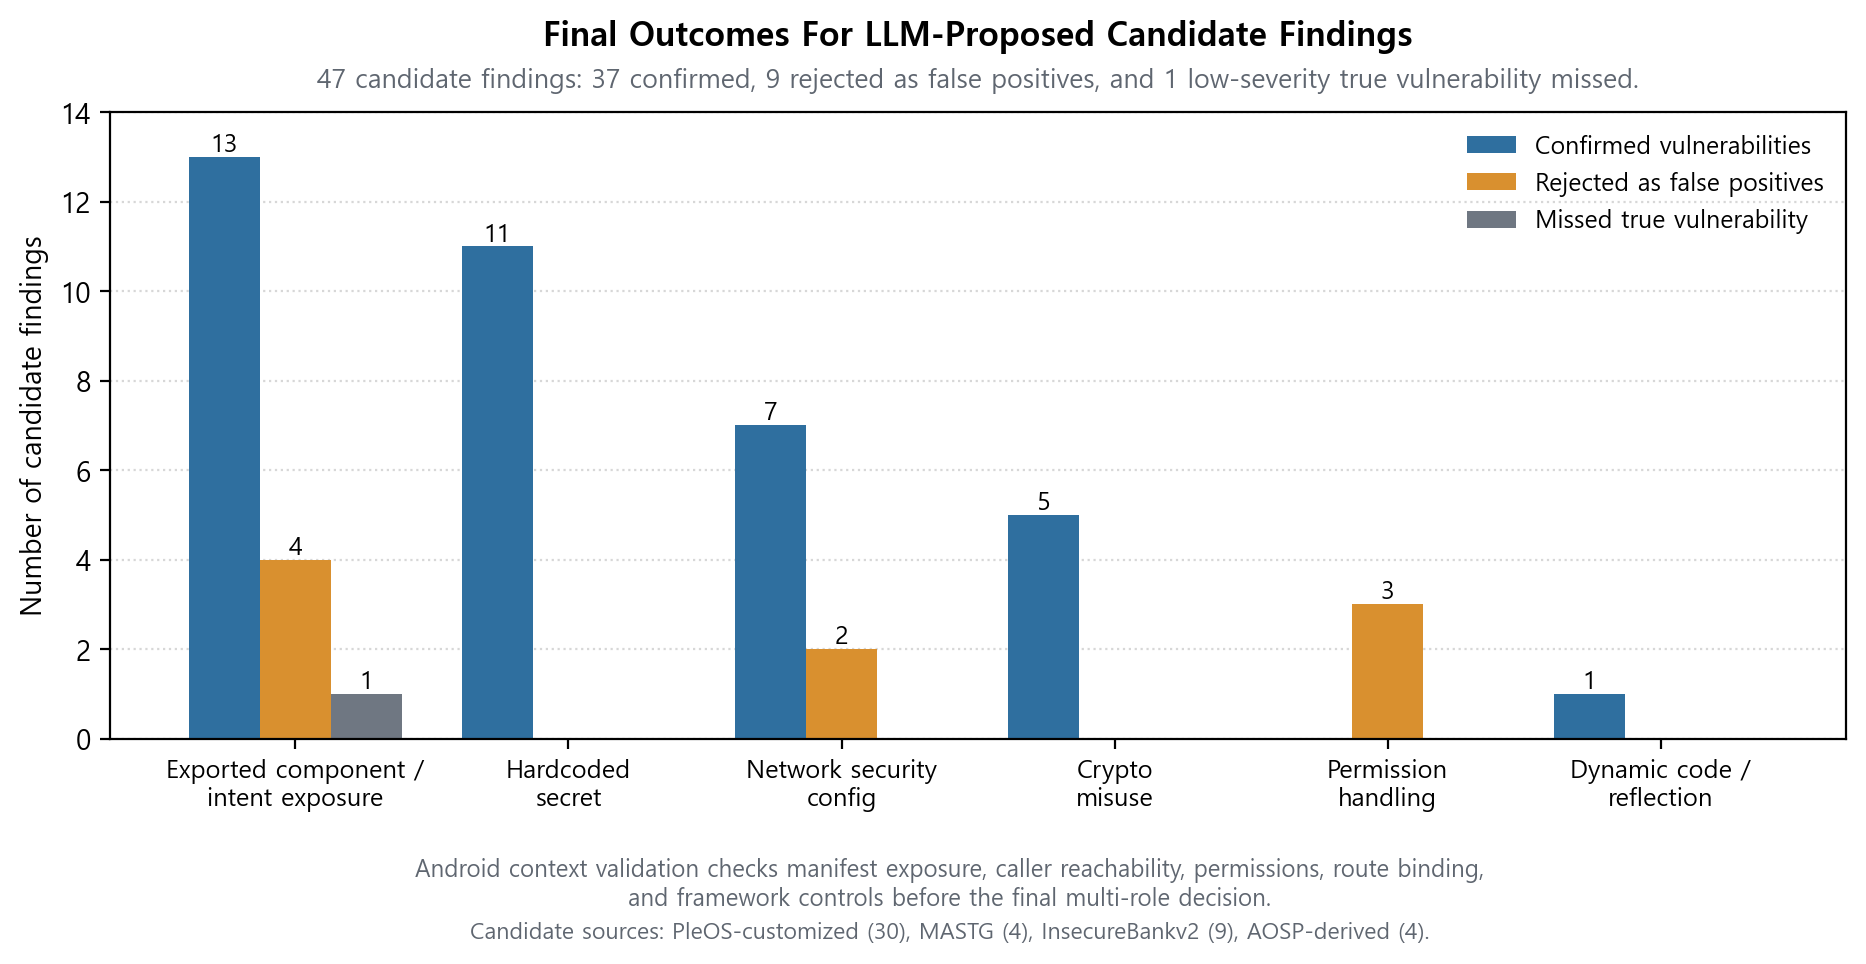
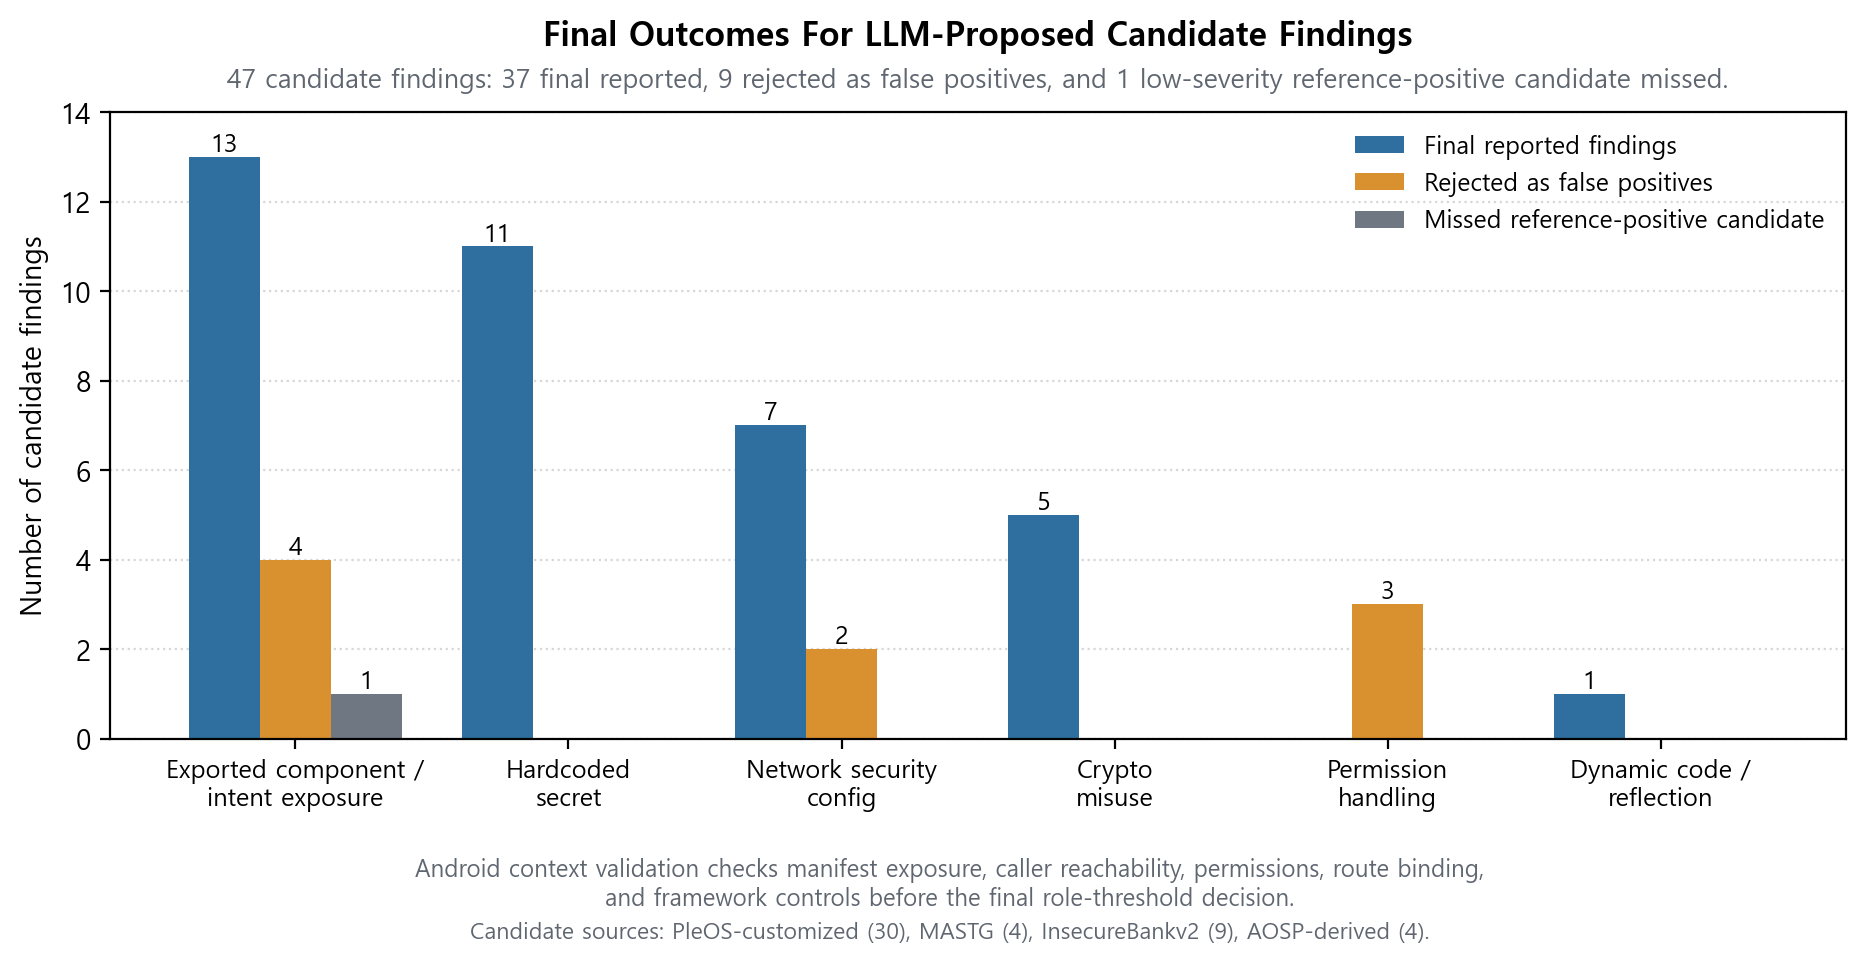
viz: clarify final chart terminology

Changed region(s): [[0.7149, 0.1245, 0.9946, 0.249], [0.1243, 0.0622, 0.9325, 0.0934], [0.3419, 0.9025, 0.6838, 0.9647]]

diff --git a/src/viz/plot_metrics.py b/src/viz/plot_metrics.py
@@ -1,13 +1,13 @@
 #!/usr/bin/env python
-"""Generate final report figures for the PleOS LLM scanner archive.
+"""Generate final report figures for the PleOS LLM-assisted security archive.
 
 The main figure set explains the static-analysis experiment flow:
 
 1. JADX output is checked for Java/Kotlin readability.
 2. LLM-proposed candidate findings are filtered by Android context validation.
 3. Context-aware review changes the headline scan-quality metrics.
-4. Confirmed vulnerability findings are reviewed by APK and severity.
-5. The candidate-acceptance rule is justified.
+4. Final reported candidate findings are reviewed by APK and severity.
+5. The role-threshold adjudication rule is justified.
 
 Appendix figures provide composition, confidence interval, obfuscation,
 mapping, and cross-validation details.
@@ -72,16 +72,16 @@ def chart_category_distribution() -> None:
     width = 0.26
 
     fig, ax = plt.subplots(figsize=(11.2, 5.4))
-    b1 = ax.bar(x - width, confirmed, width, label="Confirmed vulnerabilities", color=BLUE)
+    b1 = ax.bar(x - width, confirmed, width, label="Final reported findings", color=BLUE)
     b2 = ax.bar(x, rejected, width, label="Rejected as false positives", color=ORANGE)
-    b3 = ax.bar(x + width, missed, width, label="Missed true vulnerability", color=GRAY)
+    b3 = ax.bar(x + width, missed, width, label="Missed reference-positive candidate", color=GRAY)
 
     ax.set_ylabel("Number of candidate findings")
     ax.set_title("Final Outcomes For LLM-Proposed Candidate Findings", pad=24)
     ax.text(
         0.5,
         1.03,
-        "47 candidate findings: 37 confirmed, 9 rejected as false positives, and 1 low-severity true vulnerability missed.",
+        "47 candidate findings: 37 final reported, 9 rejected as false positives, and 1 low-severity reference-positive candidate missed.",
         transform=ax.transAxes,
         ha="center",
         va="bottom",
@@ -104,7 +104,7 @@ def chart_category_distribution() -> None:
     _caption(
         fig,
         "Android context validation checks manifest exposure, caller reachability, permissions, route binding,\n"
-        "and framework controls before the final multi-role decision.",
+        "and framework controls before the final role-threshold decision.",
         y=0.105,
         size=8.5,
     )
@@ -121,7 +121,7 @@ def chart_category_distribution() -> None:
 
 # --------------------------------------------------------------------------- 02
 def chart_severity_heatmap() -> None:
-    """Confirmed vulnerabilities by APK and severity."""
+    """Final reported findings by APK and severity."""
     apks = [
         "VehicleControl [PleOS]",
         "SyncSyslog [PleOS]",
@@ -159,11 +159,11 @@ def chart_severity_heatmap() -> None:
     ax.set_xticklabels(sev_levels)
     ax.set_yticks(range(len(apks)))
     ax.set_yticklabels(apks, fontsize=9)
-    ax.set_title("Confirmed Vulnerability Findings By APK And Severity", pad=30)
+    ax.set_title("Final Reported Findings By APK And Severity", pad=30)
     ax.text(
         0.5,
         1.035,
-        "37 findings confirmed by the selected >=2-role rule; PleOS entries are project targets.",
+        "37 final reported candidate findings; PleOS entries are project targets.",
         transform=ax.transAxes,
         ha="center",
         va="bottom",
@@ -190,7 +190,7 @@ def chart_severity_heatmap() -> None:
     _caption(
         fig,
         "Use this as a follow-up priority map, not an ecosystem prevalence estimate.\n"
-        "The one missed low-severity true vulnerability is excluded from confirmed counts.",
+        "The one missed low-severity reference-positive candidate is excluded from final reported counts.",
         y=0.075,
         size=8.2,
     )
@@ -209,16 +209,16 @@ def chart_fp_rate_trend() -> None:
     width = 0.34
 
     fig, ax = plt.subplots(figsize=(8.8, 5.0))
-    b1 = ax.bar(x - width / 2, only_llm, width, label="LLM scan only", color=BLUE)
-    b2 = ax.bar(x + width / 2, verified, width, label="Context validation + multi-role review", color=ORANGE)
+    b1 = ax.bar(x - width / 2, only_llm, width, label="Report-all candidate baseline", color=BLUE)
+    b2 = ax.bar(x + width / 2, verified, width, label="Context validation + role-threshold rule", color=ORANGE)
     ax.set_ylabel("Score (%)")
     ax.set_xticks(x)
     ax.set_xticklabels(metrics)
-    ax.set_title("Context-Aware Review Improves Precision And F1", pad=28)
+    ax.set_title("Context-Aware Filtering Improves Precision And F1", pad=28)
     ax.text(
         0.5,
         1.035,
-        "Candidate-level decisions over 47 LLM-proposed findings.",
+        "Candidate-level adjudication over 47 LLM-proposed findings.",
         transform=ax.transAxes,
         ha="center",
         va="bottom",
@@ -237,7 +237,7 @@ def chart_fp_rate_trend() -> None:
 
     _caption(
         fig,
-        "Context-aware review removes the measured false positives while missing one low-severity issue.\n"
+        "Context-aware filtering removes the measured false positives while missing one low-severity reference-positive candidate.\n"
         "McNemar exact p=0.0215 compares paired report/not-report decisions for the same 47 candidates.",
         y=0.075,
         size=8.4,
@@ -319,11 +319,11 @@ def chart_deobf_accuracy_trend() -> None:
 
 # --------------------------------------------------------------------------- 05
 def chart_ablation_bars() -> None:
-    """Candidate acceptance rule by three-role review."""
+    """Candidate reportability rule by role-threshold adjudication."""
     labels = [
-        ">=1 role\nagrees",
-        ">=2 roles\nagree",
-        "3/3 roles\nagree",
+        ">=1 role lens\nreports",
+        ">=2 role lenses\nreport",
+        "3/3 role lenses\nreport",
     ]
     precision = [84.4, 100.0, 100.0]
     recall = [100.0, 97.4, 86.8]
@@ -340,11 +340,11 @@ def chart_ablation_bars() -> None:
     ax.set_xticks(x)
     ax.set_xticklabels(labels)
     ax.set_ylim(0, 122)
-    ax.set_title("Multi-Role LLM Review: Precision-Recall Trade-Off By Consensus Threshold", pad=40)
+    ax.set_title("Role-Threshold Review: Precision-Recall Trade-Off", pad=40)
     ax.text(
         0.5,
         1.070,
-        "47 candidate findings reviewed by role-prompted attacker, defender, and in-vehicle infotainment (IVI)-domain reviewers.",
+        "47 candidate findings evaluated with attacker, defender, and IVI-domain role prompts.",
         transform=ax.transAxes,
         ha="center",
         va="bottom",
@@ -364,8 +364,8 @@ def chart_ablation_bars() -> None:
 
     _caption(
         fig,
-        "The >=1 threshold leaves 7 false positives; the 3/3 threshold misses 5 true vulnerabilities.\n"
-        "The selected >=2 threshold confirms 37 findings with 0 false positives and 1 low-severity false negative.",
+        "The >=1 threshold leaves 7 false positives; the 3/3 threshold misses 5 reference-positive candidates.\n"
+        "The selected >=2 threshold removes all observed false-positive candidates while missing 1 low-severity reference-positive candidate.",
         y=0.070,
         size=8.3,
     )
@@ -454,7 +454,7 @@ def appendix_bootstrap_ci() -> None:
     ax.set_yticklabels(metrics, fontsize=9)
     ax.invert_yaxis()
     ax.set_xlim(0, 104)
-    ax.set_title("Bootstrap Uncertainty For The LLM-Only Candidate Scan", pad=22)
+    ax.set_title("Bootstrap Uncertainty For The Report-All Candidate Baseline", pad=22)
     ax.text(
         0.5,
         1.035,
@@ -556,7 +556,7 @@ def appendix_obfuscation_score_distribution() -> None:
 def appendix_mapping_summary() -> None:
     labels = _load_json("data/ground_truth/combined_labels.json")
     assert isinstance(labels, dict)
-    verified = [r for r in labels["labels"] if r.get("is_real")]
+    verified = [r for r in labels["labels"] if r.get("is_real") and r.get("id") != "vc-7"]
     section_by_category = {
         "crypto": "Credential and secret protection",
         "hardcoded": "Credential and secret protection",
@@ -579,12 +579,12 @@ def appendix_mapping_summary() -> None:
     ax.set_yticks(np.arange(len(order)))
     ax.set_yticklabels(order, fontsize=9)
     ax.invert_yaxis()
-    ax.set_xlabel("Reference vulnerability findings")
+    ax.set_xlabel("Final reported candidate findings")
     ax.set_title("AAOS/MASVS-Aligned Control-Area Summary", pad=22)
     ax.text(
         0.5,
         1.035,
-        "38 reference vulnerability findings grouped by primary Android security control area.",
+        "37 final reported findings grouped by primary Android security control area.",
         transform=ax.transAxes,
         ha="center",
         va="bottom",
@@ -599,7 +599,7 @@ def appendix_mapping_summary() -> None:
 
     _caption(
         fig,
-        "This maps the manually verified reference set, not AAOS prevalence; the primary >=2-role rule confirms 37 of these 38.",
+        "This maps the final reported set, not AAOS prevalence; the missed low-severity reference-positive candidate is excluded.",
         y=0.045,
     )
     fig.subplots_adjust(left=0.29, bottom=0.21, top=0.76)
@@ -622,23 +622,23 @@ def appendix_validation_track_comparison() -> None:
     codex_best = codex["metrics"]["codex_models"]["gpt-5.5"]
     rows = [
         [
-            "Primary multi-role\nLLM review",
-            "Candidate finding\nconfirm/reject quality",
+            "Primary role-threshold\nadjudication",
+            "Candidate finding\nreport/reject quality",
             f"TP {main['tp']}, FP {main['fp']}, FN {main['fn']}\nagainst 38-reference set;\nF1 {main['f1'] * 100:.1f}%",
             "Main static\nresult",
         ],
         [
             "Paired\ncomparison",
-            "LLM-only scan vs\ncontext-aware review",
+            "Report-all baseline vs\nfinal filtering rule",
             f"McNemar exact\np={mcnemar:.4f}",
             "Same-row\nimprovement test",
         ],
         [
             "Independent LLM\ncross-review",
             "Model/prompt\nrobustness check",
-            f"2-of-3 consensus F1:\n{codex_2of3['f1'] * 100:.1f}%;\n"
-            f"best single-reviewer F1:\n{codex_best['f1'] * 100:.1f}%",
-            "Did not outperform\ncalibrated review",
+            f"2-of-3 role-threshold F1:\n{codex_2of3['f1'] * 100:.1f}%;\n"
+            f"best single-lens F1:\n{codex_best['f1'] * 100:.1f}%",
+            "Did not outperform\nselected workflow",
         ],
         [
             "Native-code\nboundary scan",
